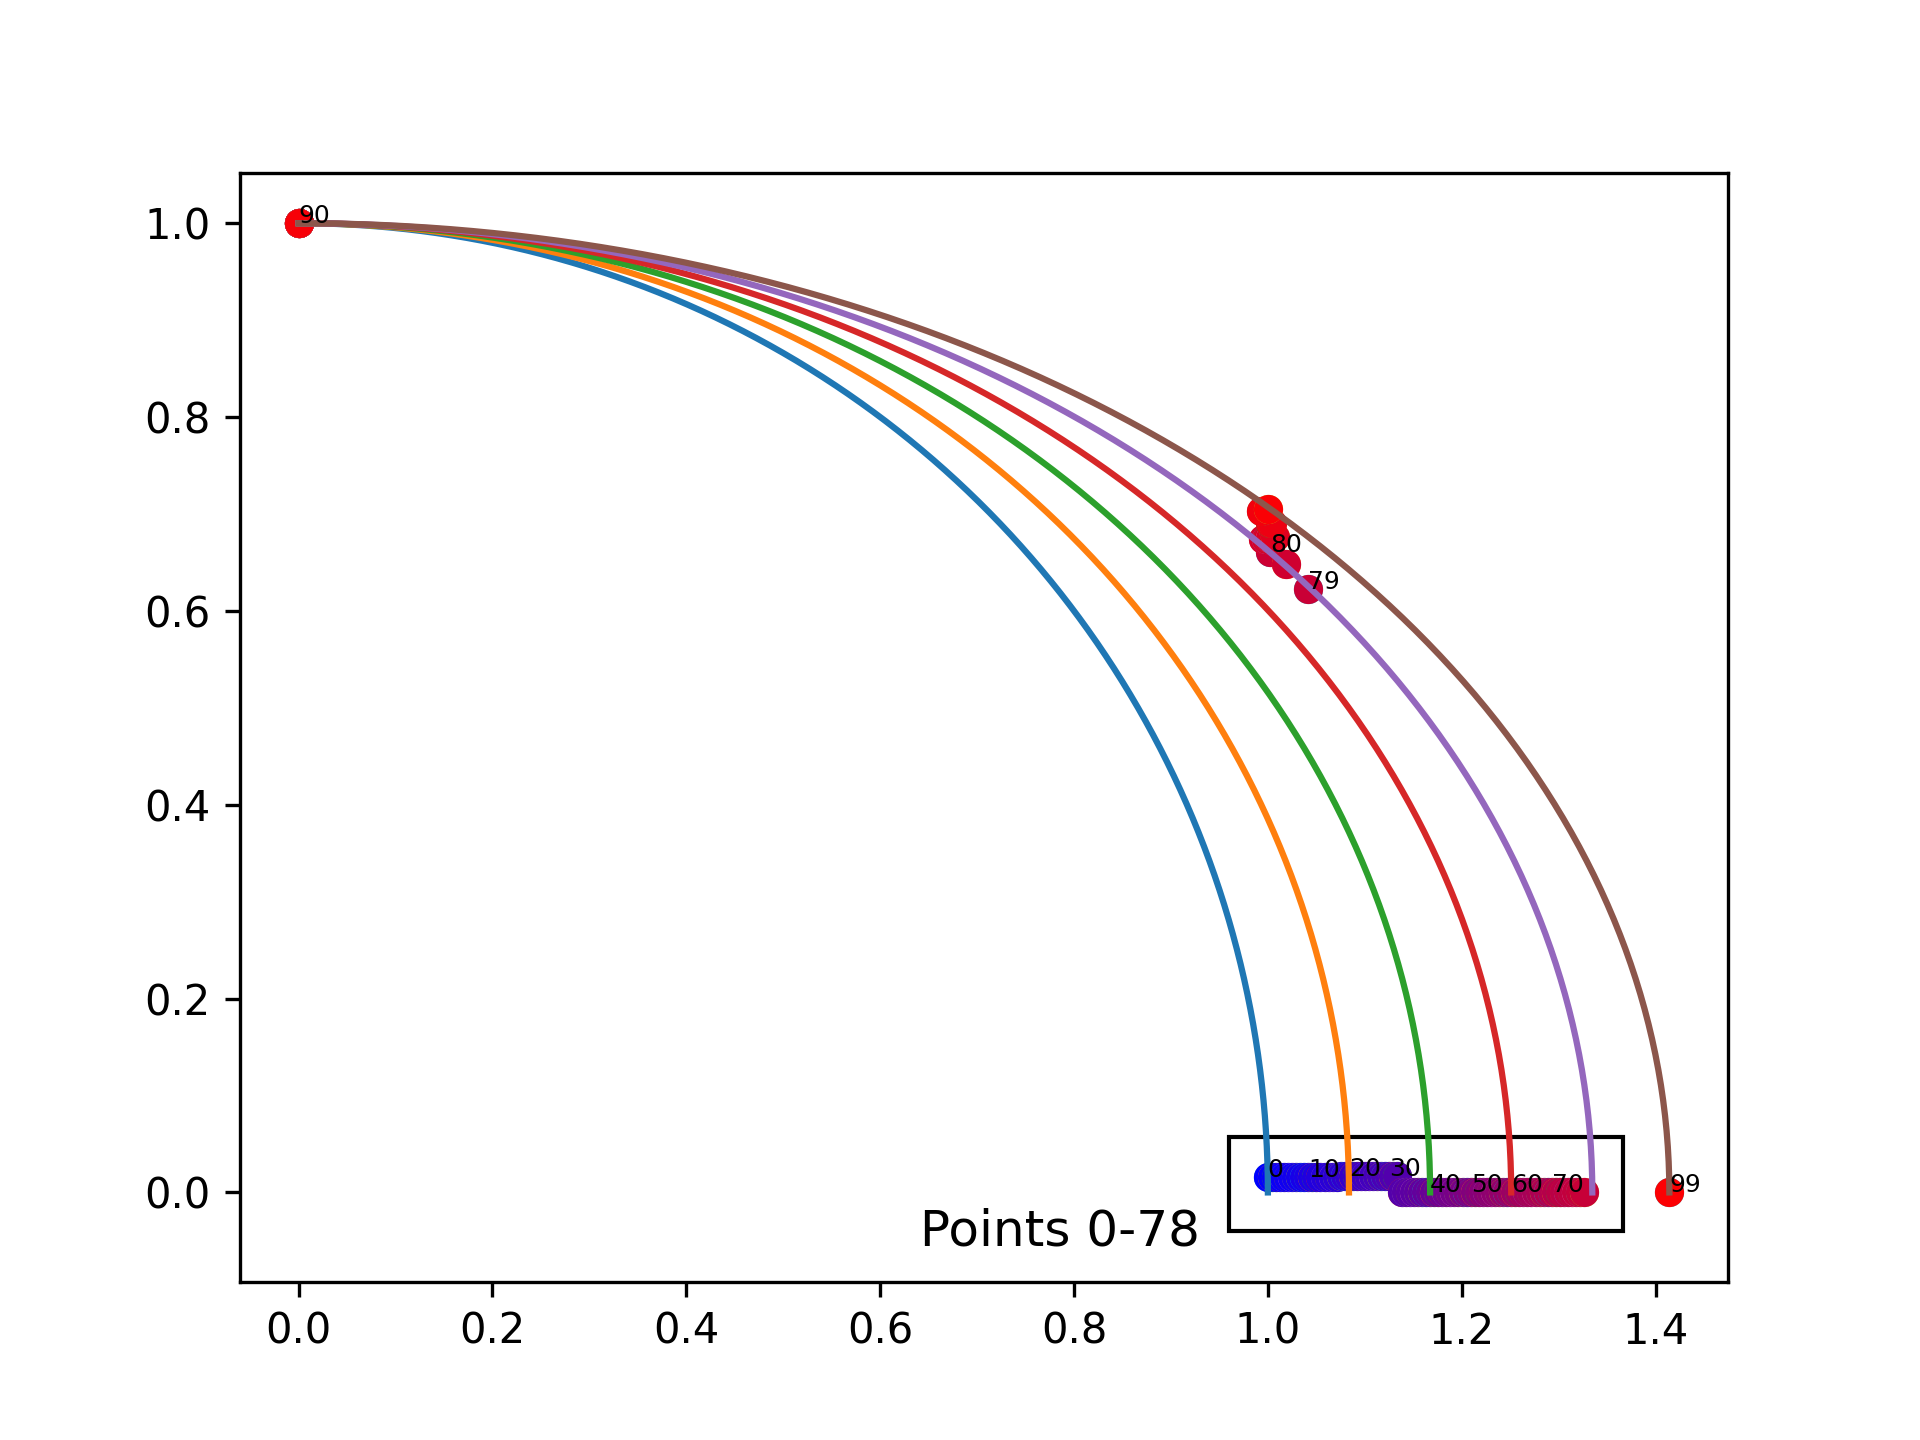
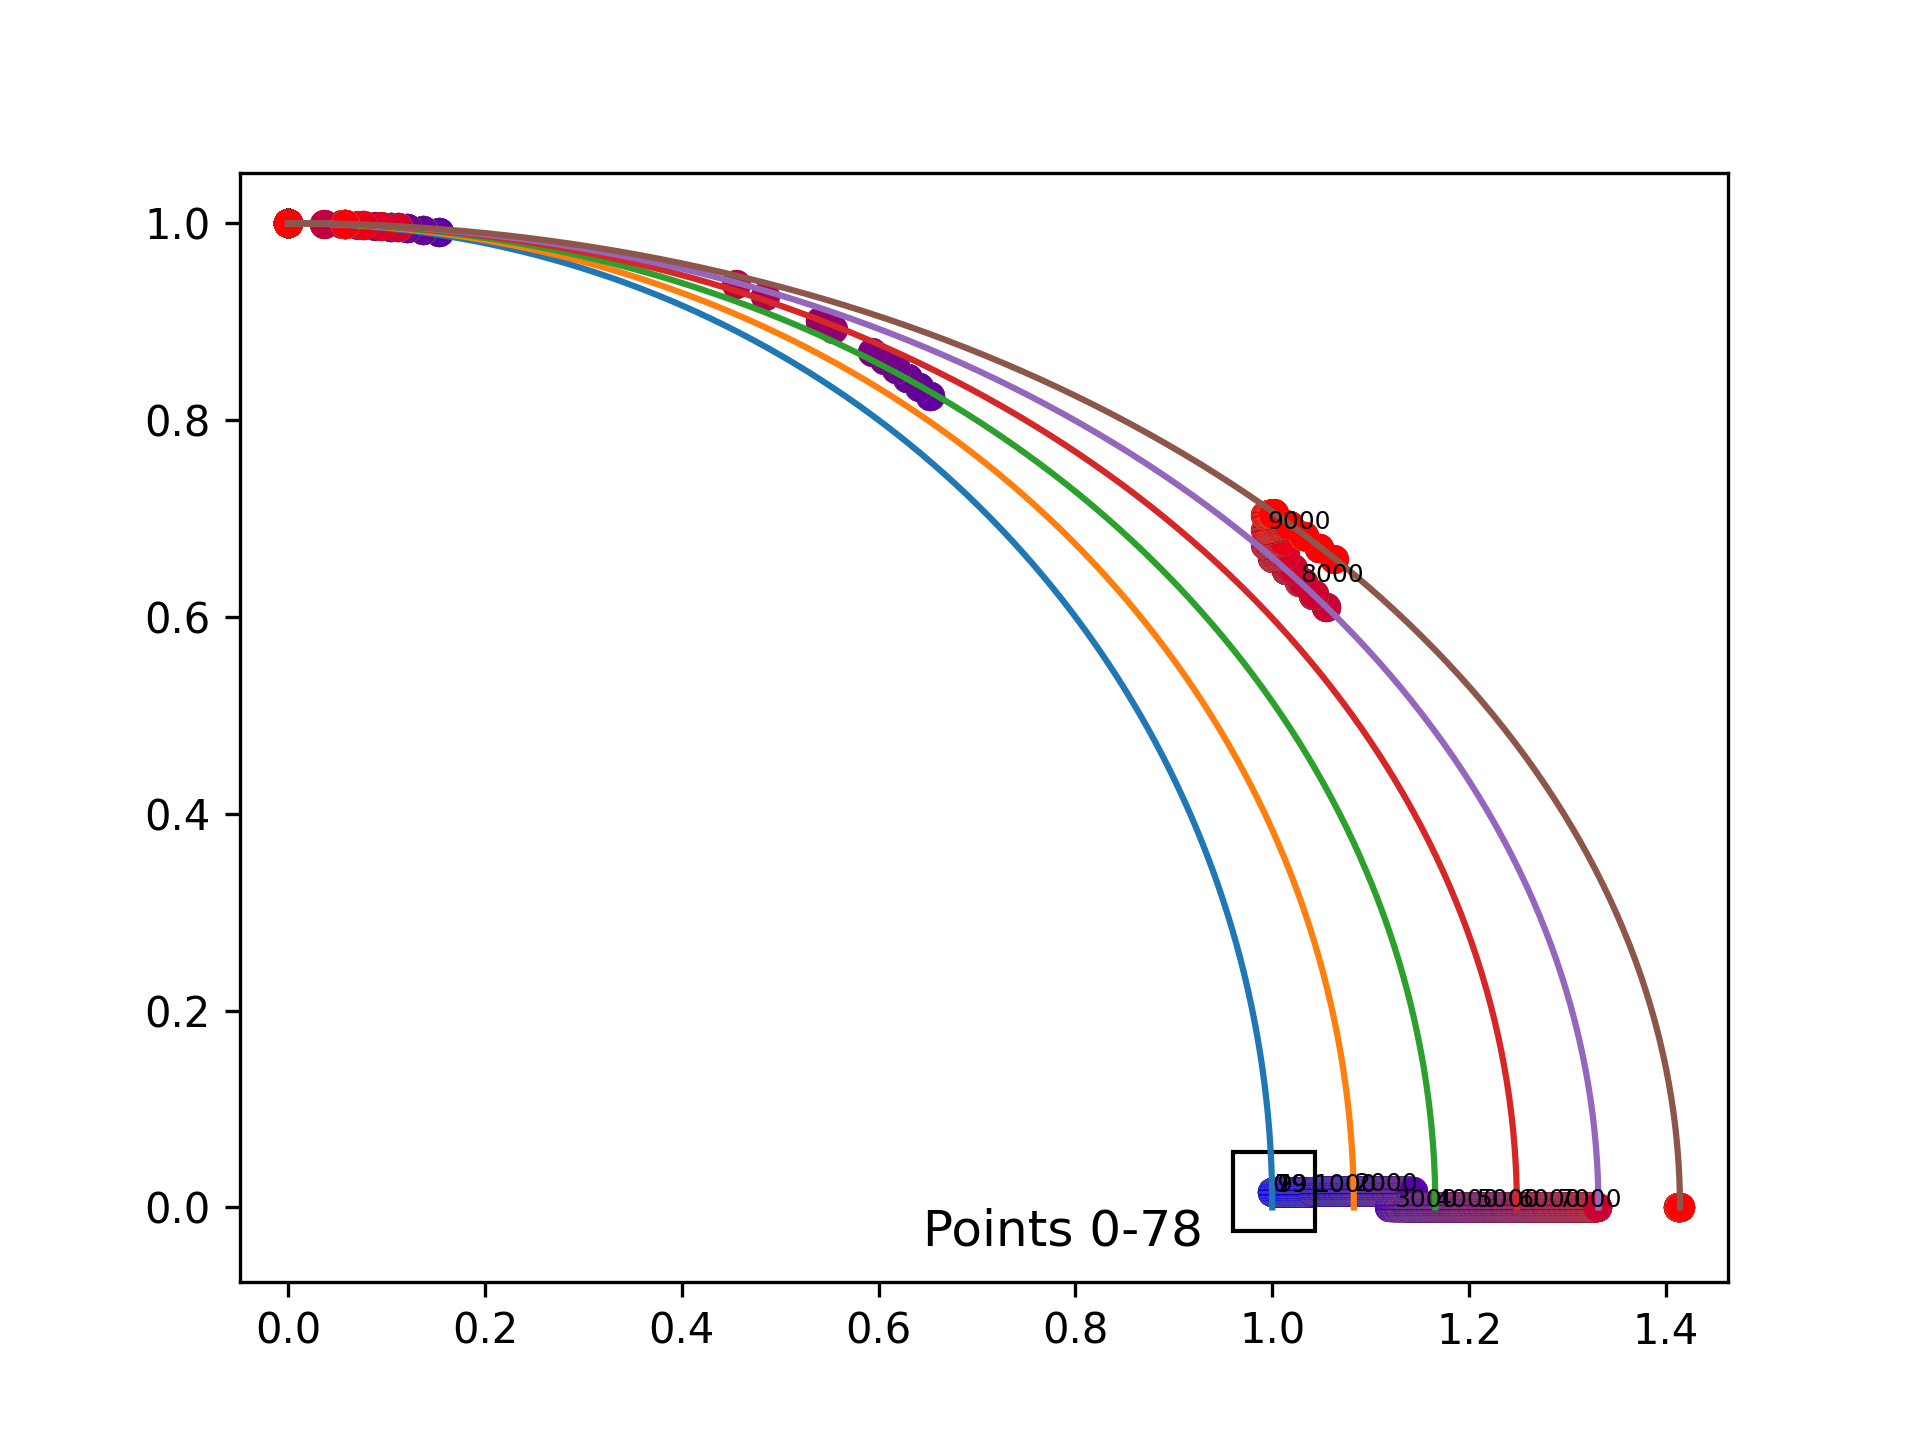
Added scripts for comparing r against t, and the error of the distance function against t

diff --git a/computational_library.c b/computational_library.c
@@ -4,12 +4,14 @@
 
 #include <gsl/gsl_poly.h>
 
-void find_d_distance_point_on_ellipse(double d, double x_0, double y_0, double a, double result[2]) {
+double find_d_distance_point_on_ellipse(double d, double x_0, double y_0, double a, double result[2]) {
     // give a point p_0 = (x_0, y_0) on an ellipse described by x^2/a^2 + y^2 = 1, find the point p_1 on the ellipse that is d Euclidean distance away from p_0 in the counter-clockwise direction
     // d = distance of interest
     // x_0 = x-coordinate of point on ellipse
     // y_0 = y-coordinate of point on ellipse
     // a = semi-major axis of ellipse
+    // result = array to store the x and y coordinates of the point p_1
+    // returns distance from p_0 to p_1 (should be d)
 
     if (a > sqrt(2)) {
         printf("Warning: find_d_distance_point_on_ellipse not tested for a > sqrt(2)\n");
@@ -20,7 +22,7 @@ void find_d_distance_point_on_ellipse(double d, double x_0, double y_0, double a
     if (a <= sqrt(2) && d >= 2*sqrt(pow(x_0, 2) + pow(y_0, 2))) {
         result[0] = -x_0;
         result[1] = -y_0;
-        return;
+        return sqrt(pow(2*x_0, 2) + pow(2*y_0, 2));
     }
 
     // first, convert point to 1st quadrant
@@ -158,6 +160,8 @@ void find_d_distance_point_on_ellipse(double d, double x_0, double y_0, double a
 
     result[0] = x_ccw;
     result[1] = y_ccw;
+
+    return sqrt(pow(x_ccw - x_0, 2) + pow(y_ccw - y_0, 2));
 }
 
 int num_loops(double d, double x_0, double y_0, double a, int num_steps) {
@@ -198,6 +202,31 @@ int num_loops(double d, double x_0, double y_0, double a, int num_steps) {
     }
 
     return num_loops;
+}
+
+double min_r_given_t(double t, double a) {
+    // given a point on the ellipse parameterized by x = a*cos(t), y = sin(t), find the minimum r value such that k_5 appears in VR(E, r)
+    // t = parameter of point on ellipse
+    // a = semi-major axis of ellipse
+
+    double x = a*cos(t);
+    double y = sin(t);
+
+    double left = 0;
+    double right = 2;
+
+    double mid = (left + right)/2;
+    while (right - left > 1e-10) {
+        int loops = num_loops(mid, x, y, a, 5);
+        if (loops >= 2) {
+            right = mid;
+        } else {
+            left = mid;
+        }
+        mid = (left + right)/2;
+    }
+
+    return mid;
 }
 
 int max_loops(double d, int n, double x_0[], double y_0[], double max_point[2], double a, int num_steps, int stop_early) {

diff --git a/test_d_distance.py b/test_d_distance.py
@@ -1,0 +1,43 @@
+import numpy as np
+import ctypes
+import matplotlib.pyplot as plt
+
+import ellipse_tools
+
+libcomp = ctypes.CDLL('./libcomp.so')
+
+libcomp.find_d_distance_point_on_ellipse.argtypes = [ctypes.c_double, ctypes.c_double, ctypes.c_double, ctypes.c_double, ctypes.POINTER(ctypes.c_double)]
+libcomp.find_d_distance_point_on_ellipse.restype = ctypes.c_double
+
+def find_d_distance_point_on_ellipse(d, x, y, a):
+    arr = (ctypes.c_double * 2)()
+    libcomp.find_d_distance_point_on_ellipse(d, x, y, a, arr)
+    return arr[0], arr[1]
+
+def d_distance_point_error(d, x, y, a):
+    arr = (ctypes.c_double * 2)()
+    return abs(d - libcomp.find_d_distance_point_on_ellipse(d, x, y, a, arr))
+
+## get ellipse points
+a = 1.3
+interval = np.linspace(0, 1/4, 10000)
+Ts = ellipse_tools.get_ellipse_points_ts(interval, a)
+points = ellipse_tools.get_ellipse_points(interval, a)
+
+## for each point, get d distance point
+d = 1.98    
+errors = [d_distance_point_error(d, point[0], point[1], a) for point in points]
+
+## plot errors vs t
+plt.clf()
+plt.plot(Ts, errors)
+plt.xlabel('t')
+plt.ylabel('error')
+plt.title('error vs t')
+plt.savefig("error_vs_t.png")
+
+print("max error: ", max(errors))
+print("min error: ", min(errors))
+print("mean error: ", np.mean(errors))
+print("std error: ", np.std(errors))
+print("median error: ", np.median(errors))

diff --git a/wf_ellipse.py b/wf_ellipse.py
@@ -35,7 +35,7 @@ def max_loops(d, points, a, num_steps, stop_early = 0):
     return max_loops, max_arr[0], max_arr[1]
 
 ## for a \in [1, sqrt(2)], determine the least d such that there is some point on the ellipse which makes 2 loops after 5 steps of d-distance apart points
-num_ellipses = 100
+num_ellipses = 10000
 num_samples = 100
 num_steps = 5
 num_loops = 2
@@ -77,7 +77,7 @@ plt.figure(dpi=300)
 
 # plot a couple ellipses for reference
 t = np.linspace(0, np.pi/2, 100)
-for a_val in a_vals[::20]:
+for a_val in a_vals[::2000]:
     plt.plot(a_val * np.cos(t), np.sin(t))
 plt.plot(a_vals[-1] * np.cos(t), np.sin(t))
 
@@ -86,7 +86,7 @@ for i, points in enumerate(max_points):
     # color the points by the value of from red to blue
     plt.scatter(points[0], points[1], color = [i / num_ellipses, 0, 1 - i / num_ellipses])
     # annotate every tenth point
-    if i % 10 == 0 or i == 79 or i == 99:
+    if i % 1000 == 0 or i == 79 or i == 99:
         plt.annotate(f'{i}', (points[0], points[1]), fontsize=6)
 
 ## draw a rectangle around the first 79 points

diff --git a/ellipse_tools.py b/ellipse_tools.py
@@ -23,6 +23,22 @@ def get_ellipse_points(interval, a, b = 1):
     Ts = [t_from_length(i, a, b) for i in interval_stretched]
     return [(a*cos(t), b*sin(t)) for t in Ts]
 
+def get_ellipse_points_ts(interval, a, b = 1):
+    eccentricity_sq = 1.0 - (b/a)**2
+    ellipse_circumference = 4 * a * ellipe(eccentricity_sq)
+    interval_stretched = interval * ellipse_circumference
+    Ts = [t_from_length(i, a, b) for i in interval_stretched]
+    return Ts
+
+def plot_ellipse_points(interval, a, b = 1, img_name = "points_on_ellipse.png"):
+    points = get_ellipse_points(interval, a, b)
+    points = np.array(points)
+    t = np.linspace(0, 2*np.pi, 100)
+    plt.plot(a*np.cos(t), b*np.sin(t), 'k')
+    plt.scatter(points[:,0], points[:,1])
+    plt.axis('equal')
+    plt.savefig(img_name)
+
 ## functions for computing points on ellipse d Euclidean distance apart
 import ctypes
 import matplotlib.pyplot as plt

diff --git a/r_vs_t.py b/r_vs_t.py
@@ -1,0 +1,32 @@
+import numpy as np
+import ctypes
+import matplotlib.pyplot as plt
+
+import ellipse_tools
+
+libcomp = ctypes.CDLL('./libcomp.so')
+
+libcomp.min_r_given_t.argtypes = [ctypes.c_double, ctypes.c_double]
+libcomp.min_r_given_t.restype = ctypes.c_double
+
+def min_r_given_t(t, a):
+    return libcomp.min_r_given_t(t, a)
+
+## parameters
+a = np.linspace(1.329, 1.331, 20)
+num_points = 1000
+
+for a_val in a:
+    ## get evenly spaced points 
+    interval = np.linspace(0, 1/4, num_points)
+    Ts = ellipse_tools.get_ellipse_points_ts(interval, a_val)
+    Rs = [min_r_given_t(t, a_val) for t in Ts]
+
+    ## plot
+    plt.clf()
+    plt.plot(Ts, Rs)
+    plt.xlabel('t')
+    plt.ylabel('r')
+    plt.title('r vs t')
+    plt.savefig(f'r_vs_t/r_vs_t_a={a_val}.png')
+
